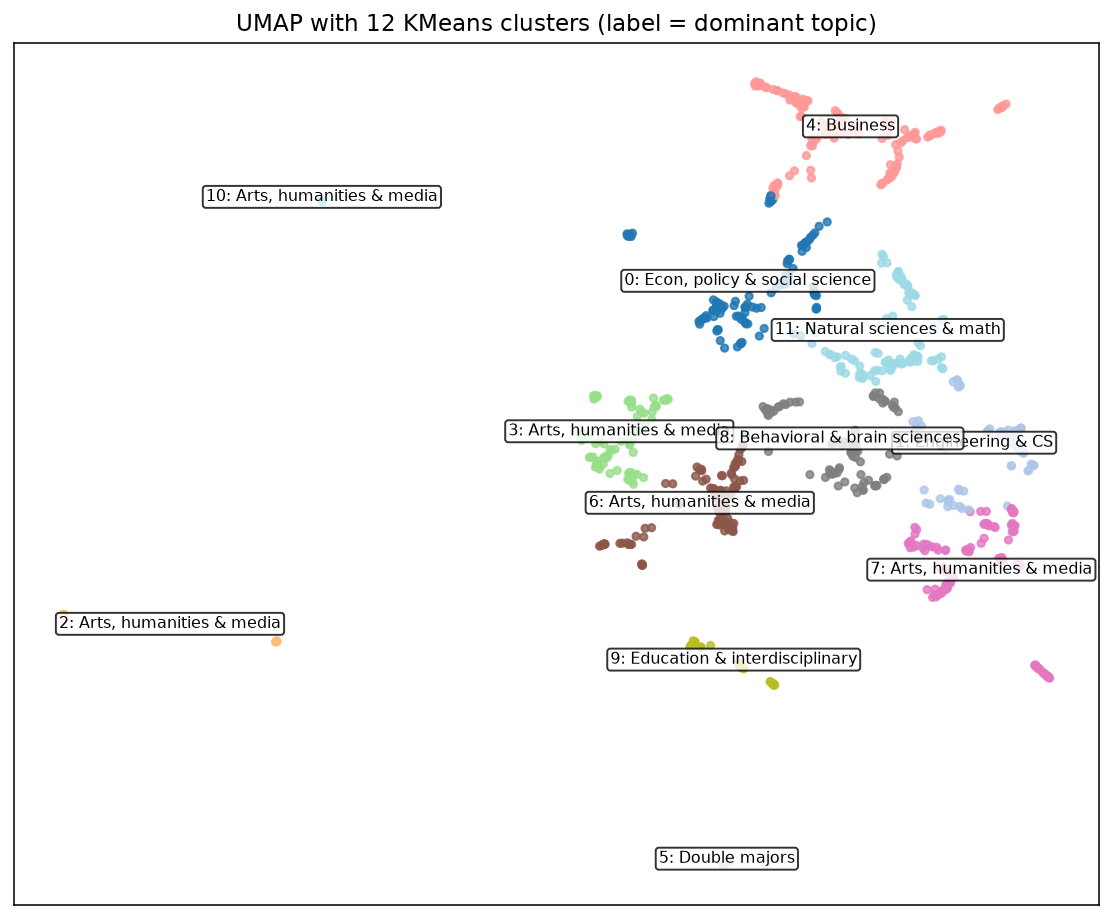
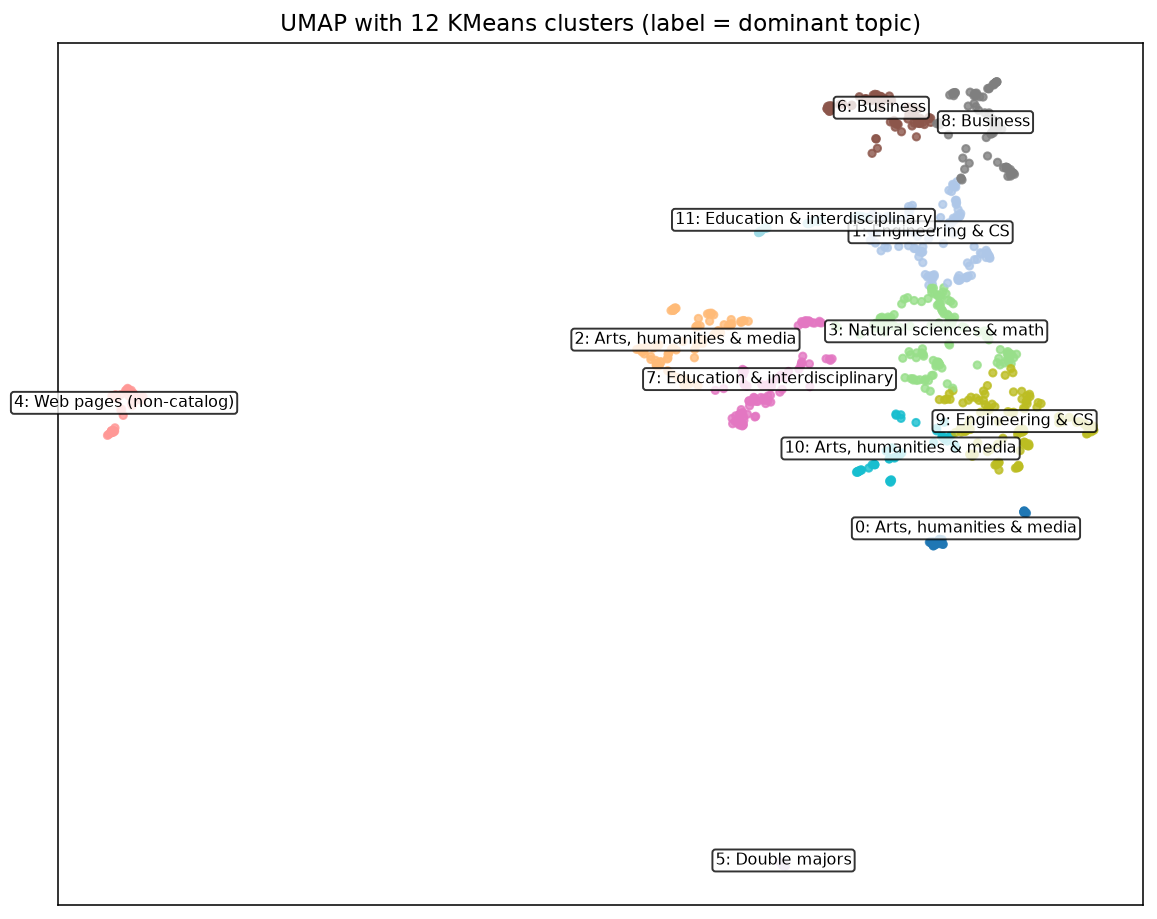
refresh coverage analysis, add retrieval eval after dedupe

diff --git a/backend/analysis/retrieval_eval_after_dedupe.md b/backend/analysis/retrieval_eval_after_dedupe.md
@@ -1,0 +1,180 @@
+# Retrieval eval after corpus dedupe (2026-11-11)
+
+Same 30 questions as the Week 3 review (`eval_questions.md` at `d8e03ee`), same harness (`feat/retrieval-eval`, read-only against Neon). Only the corpus changed: 192 documents / 885 chunks before, 202 documents / 892 chunks after.
+
+Dense (`text-embedding-3-small`), document level:
+
+| metric | before strict | before dup-aware | after (strict = dup-aware) |
+|---|---:|---:|---:|
+| Recall@1 | 0.578 | 0.667 | 0.689 |
+| Recall@3 | 0.706 | 0.794 | 0.900 |
+| Recall@5 | 0.761 | 0.889 | 0.928 |
+| Recall@10 | 0.967 | 0.967 | 1.000 |
+| MRR@10 | 0.769 | 0.838 | 0.883 |
+
+First relevant rank for the review's worst questions (dense, strict): Q6 6 -> 1, Q8 8 -> 1, Q19 6 -> 2, Q30 5 -> 3, Q5 4 -> 2, Q10 6 -> 6.
+
+Not fixed by the dedupe: Q10 (sibling programs outrank the target), repeated chunks from one document (27/30 questions), and BM25 favouring a few hub documents, including the single catalog overview page (top 5 for 8 questions).
+
+Full harness output follows.
+
+---
+
+# Retrieval evaluation — 2026-11-11
+
+- Questions: 30 from `/private/tmp/claude-501/-Users-sahilpatil-AskTemoc/f30d68e9-29fd-4d03-adca-7784f4641190/scratchpad/eval_questions_30.md`; parsed copy in `eval/eval_set.json`
+- Corpus: 202 documents, 892 chunks (Neon, read-only)
+- Code: `b56f7c4 (with uncommitted changes)`
+- Questions source commit: none (read from a local file)
+- Dense: `text-embedding-3-small` query embedding, pgvector cosine distance, exact scan
+- BM25: rank_bm25 BM25Okapi, lowercase + `[a-z0-9]+` tokens, no stemming or stopwords
+- Each method returns the top 50 chunks; these are collapsed to a document ranking (first chunk of each document counts) and metrics are computed on documents.
+- STRICT: only the exact target titles are relevant. DUPLICATE-AWARE: documents with identical text (`exact`) or difflib ratio ≥ 0.99 to a target (`near (ratio)`) also count. Recall counts each target once, credited to the first document that matches it.
+
+## Summary (document level)
+
+Headline metrics: Recall@k and MRR@k over the document ranking.
+
+**Recall@k**
+
+| method | mode | @1 | @3 | @5 | @10 |
+|---|---|---:|---:|---:|---:|
+| dense | strict | 0.689 | 0.900 | 0.928 | 1.000 |
+| dense | duplicate-aware | 0.689 | 0.900 | 0.928 | 1.000 |
+| bm25 | strict | 0.472 | 0.711 | 0.811 | 0.911 |
+| bm25 | duplicate-aware | 0.472 | 0.711 | 0.811 | 0.911 |
+
+**MRR@k**
+
+| method | mode | @1 | @3 | @5 | @10 |
+|---|---|---:|---:|---:|---:|
+| dense | strict | 0.800 | 0.878 | 0.878 | 0.883 |
+| dense | duplicate-aware | 0.800 | 0.878 | 0.878 | 0.883 |
+| bm25 | strict | 0.567 | 0.644 | 0.658 | 0.673 |
+| bm25 | duplicate-aware | 0.567 | 0.644 | 0.658 | 0.673 |
+
+**Precision@k (strict)**
+
+| method | mode | @1 | @3 | @5 | @10 |
+|---|---|---:|---:|---:|---:|
+| dense | strict | 0.800 | 0.378 | 0.240 | 0.133 |
+| bm25 | strict | 0.567 | 0.289 | 0.200 | 0.110 |
+
+**Precision@k (duplicate-aware)**: counts identical copies as separate hits, so it rewards redundancy; not comparable to strict precision.
+
+| method | mode | @1 | @3 | @5 | @10 |
+|---|---|---:|---:|---:|---:|
+| dense | duplicate-aware | 0.800 | 0.389 | 0.253 | 0.140 |
+| bm25 | duplicate-aware | 0.567 | 0.289 | 0.207 | 0.117 |
+
+## Chunk budget (what generation receives)
+
+Recall and MRR over the raw first k chunks, with no document-level dedup: repeated chunks of one document use up the budget, and MRR uses the position of the first relevant chunk.
+
+**Recall within the first k chunks**
+
+| method | mode | 3 chunks | 5 chunks | 8 chunks |
+|---|---|---:|---:|---:|
+| dense | strict | 0.883 | 0.928 | 0.961 |
+| dense | duplicate-aware | 0.883 | 0.928 | 0.961 |
+| bm25 | strict | 0.711 | 0.794 | 0.878 |
+| bm25 | duplicate-aware | 0.711 | 0.794 | 0.878 |
+
+**MRR within the first k chunks**
+
+| method | mode | 3 chunks | 5 chunks | 8 chunks |
+|---|---|---:|---:|---:|
+| dense | strict | 0.872 | 0.872 | 0.876 |
+| dense | duplicate-aware | 0.872 | 0.872 | 0.876 |
+| bm25 | strict | 0.644 | 0.658 | 0.668 |
+| bm25 | duplicate-aware | 0.644 | 0.658 | 0.668 |
+
+## Per question: rank of first relevant document (top 10, – = none)
+
+| Q | targets | dense strict | dense dup-aware | bm25 strict | bm25 dup-aware | question |
+|---|---:|---:|---:|---:|---:|---|
+| Q1 | 1 | 1 | 1 | 5 | 5 | What are the core requirements for the BS in Computer Science at UTD? |
+| Q2 | 1 | 1 | 1 | 3 | 3 | How many total credit hours are required to complete the BS in Computer Science? |
+| Q3 | 1 | 2 | 2 | 1 | 1 | What math courses are required for the BS in Electrical Engineering? |
+| Q4 | 1 | 1 | 1 | 1 | 1 | What is the Certificate in Quantum Information and what courses does it require? |
+| Q5 | 1 | 2 | 2 | 6 | 6 | What are the requirements for the BS in Biology and Healthcare Management double major? |
+| Q6 | 1 | 1 | 1 | 1 | 1 | What courses are listed under the Certificate in Intercultural Communication? |
+| Q7 | 1 | 1 | 1 | 1 | 1 | What does the Certificate in Military Science Leadership require, and who is eligible? |
+| Q8 | 1 | 1 | 1 | 1 | 1 | What courses make up the Certificate in Applied Experience Design and Research? |
+| Q9 | 1 | 1 | 1 | 2 | 2 | What are the upper-division elective options for the BS in Computer Science? |
+| Q10 | 1 | 6 | 6 | 6 | 6 | What are the requirements for the standalone BS in Healthcare Management at UTD? |
+| Q11 | 1 | 1 | 1 | 1 | 1 | What science or lab courses are required in the BS in Electrical Engineering? |
+| Q12 | 1 | 2 | 2 | 3 | 3 | What courses are required for the BS in Accounting at UTD? |
+| Q13 | 3 | 1 | 1 | 1 | 1 | What certificates at UTD focus on communication, design, or user experience? |
+| Q14 | 2 | 1 | 1 | 1 | 1 | What is the difference in core requirements between a BS in Computer Science and a BS in Electrical Engineering at UTD? |
+| Q15 | 1 | 1 | 1 | 1 | 1 | What are the course requirements for the BA in Animation and Games at UTD? |
+| Q16 | 1 | 1 | 1 | 2 | 2 | What does the BS in Business Analytics and Artificial Intelligence require? |
+| Q17 | 1 | 1 | 1 | 1 | 1 | What courses are required for the BS in Cybersecurity and Risk Management? |
+| Q18 | 2 | 1 | 1 | 1 | 1 | How do the core requirements for the BS in Software Engineering compare to those for the BS in Computer Science? |
+| Q19 | 1 | 2 | 2 | 3 | 3 | What are the requirements for the Certificate in Cyber Defense? |
+| Q20 | 1 | 1 | 1 | 1 | 1 | What courses does the BS in Biomedical Engineering require? |
+| Q21 | 1 | 1 | 1 | 3 | 3 | What is required for the BS in Neuroscience at UTD? |
+| Q22 | 2 | 1 | 1 | 1 | 1 | How do the requirements differ between the BA in Economics and the BS in Finance and Economics double major? |
+| Q23 | 1 | 1 | 1 | 5 | 5 | What courses make up the Certificate in Data Science? |
+| Q24 | 1 | 1 | 1 | 1 | 1 | What are the requirements for the BS in Mechanical Engineering? |
+| Q25 | 3 | 1 | 1 | 1 | 1 | What programs at UTD focus on sustainability or environmental topics? |
+| Q26 | 1 | 1 | 1 | 8 | 8 | What is the BS in Marketing and what courses does it require? |
+| Q27 | 1 | 1 | 1 | 1 | 1 | What are the requirements for the Certificate in Innovation and Entrepreneurship? |
+| Q28 | 2 | 1 | 1 | – | – | Does UTD have a pre-law program or certificate, and what does it cover? |
+| Q29 | 1 | 1 | 1 | 1 | 1 | What are the requirements for the BA in Visual and Performing Arts — Film concentration? |
+| Q30 | 3 | 3 | 3 | – | – | What programs at UTD combine business with another discipline as a prescribed double major? |
+
+## Strict vs duplicate-aware: what changed
+
+4 question/method pairs change. The last column lists every non-target document that counted in the top 10, as `#rank doc -> target [exact|near (ratio)]`. `rescued` marks the first document credited to that target, which raised recall or MRR; the others only raised precision.
+
+| Q | method | changed at k | R@10 strict → dup | MRR@10 strict → dup | P@10 strict → dup (dup counts copies) | duplicate documents counted (top 10) |
+|---|---|---|---|---|---|---|
+| Q5 | dense | 5, 10 | 1.000 → 1.000 | 0.500 → 0.500 | 0.100 → 0.200 | #5 bs_in_healthcare_management_and_biology_double_major/requirements -> bs_in_biology_and_healthcare_management_double_major/requirements [near (0.992)] |
+| Q5 | bm25 | 10 | 1.000 → 1.000 | 0.167 → 0.167 | 0.100 → 0.200 | #7 bs_in_healthcare_management_and_biology_double_major/requirements -> bs_in_biology_and_healthcare_management_double_major/requirements [near (0.992)] |
+| Q22 | dense | 3, 5, 10 | 1.000 → 1.000 | 1.000 → 1.000 | 0.200 → 0.300 | #2 bs_in_finance_and_economics_double_major/requirements -> bs_in_economics_and_finance_double_major/requirements [near (0.994)] |
+| Q22 | bm25 | 5, 10 | 1.000 → 1.000 | 1.000 → 1.000 | 0.200 → 0.300 | #5 bs_in_finance_and_economics_double_major/requirements -> bs_in_economics_and_finance_double_major/requirements [near (0.994)] |
+
+### Equivalence sets used for targets (targets with at least one duplicate)
+
+- `bs_in_biology_and_healthcare_management_double_major/requirements`: `bs_in_healthcare_management_and_biology_double_major/requirements` (near (0.992))
+- `bs_in_economics_and_finance_double_major/requirements`: `bs_in_finance_and_economics_double_major/requirements` (near (0.994))
+
+## Repeated documents in chunk rankings
+
+| method | questions with a repeat in top 10 chunks | mean repeats in top 10 chunks | max | mean chunks needed for 10 distinct docs | max |
+|---|---:|---:|---:|---:|---:|
+| dense | 27/30 | 2.97 | 6 | 14.9 | 24 |
+| bm25 | 26/30 | 1.90 | 6 | 12.7 | 19 |
+
+## Catalog index pages (`1/`, `2/`, `3/requirements`) in the top 5
+
+These three documents are identical copies of the catalog's program index page.
+
+| method | questions with ≥1 in top 5 docs | slots taken in top 5 docs | questions with ≥1 in top 5 chunks | slots taken in top 5 chunks |
+|---|---:|---:|---:|---:|
+| dense | 0/30 | 0/150 | 0/30 | 0/150 |
+| bm25 | 0/30 | 0/150 | 0/30 | 0/150 |
+
+## Documents that appear in the top 5 most often
+
+A document in many unrelated top-5 lists is crowding out targets. Count = questions (of 30) with that document in the top 5.
+
+**dense**: `bachelor_of_science_in_software_engineering/requirements` 8 (a target), `bachelor_of_science_in_computer_science/requirements` 6 (a target), `bachelor_of_science_in_computer_engineering/requirements` 6, `bachelor_of_science_in_systems_engineering/requirements` 5, `bachelor_of_science_in_cybersecurity_and_risk_management/requirements` 5 (a target), `bachelor_of_science_in_cognitive_science/requirements` 5
+
+**bm25**: `bachelor_of_arts_in_economics/requirements` 23 (a target), `bachelor_of_arts_in_sociology/requirements` 17, `bachelor_of_arts_in_political_science/requirements` 8, `undergraduate_catalog_overview/requirements` 8, `certificate_in_neural_net_math/requirements` 7, `bachelor_of_science_in_computer_science/requirements` 7 (a target)
+
+## Method comparison (MRR@10)
+
+**strict**: dense better on 12, BM25 better on 1, tied on 17.
+
+- BM25 beats dense: Q3 (1.000 vs 0.500)
+- Both miss in top 10: none
+- Both miss in top 5: Q10
+
+**duplicate-aware**: dense better on 12, BM25 better on 1, tied on 17.
+
+- BM25 beats dense: Q3 (1.000 vs 0.500)
+- Both miss in top 10: none
+- Both miss in top 5: Q10
+

diff --git a/backend/analysis/coverage_report.md b/backend/analysis/coverage_report.md
@@ -1,6 +1,6 @@
 # Embedding coverage report
 
-Source: 940 chunk embeddings (text-embedding-3-small, 1536-dim) across 122 program folders in Neon.
+Source: 892 chunk embeddings (text-embedding-3-small, 1536-dim) across 121 program folders (202 documents) in Neon.
 Reproduce with `python backend/embedding_coverage.py`. Topic labels are keyword rules on the folder name, so they are approximate.
 
 Plots: `embedding_map.png` (PCA + UMAP by topic), `embedding_clusters.png` (UMAP + KMeans), `eval_coverage.png` (programs vs eval targets).
@@ -15,28 +15,29 @@ Raw numbers: `coverage_summary.json`.
 
 ## Eval coverage (programs that are the target of at least one question)
 
-| Topic | Programs | Before (Q1-Q30) | After (Q1-Q51) |
+| Topic | Programs | Before (Q1-Q30) | After (Q1-Q55) |
 |---|---|---|---|
 | Engineering & CS | 14 | 8 | 8 |
 | Natural sciences & math | 14 | 2 | 7 |
 | Business | 12 | 6 | 6 |
-| Econ, policy & social science | 14 | 3 | 7 |
+| Econ, policy & social science | 15 | 3 | 7 |
 | Arts, humanities & media | 29 | 6 | 10 |
 | Behavioral & brain sciences | 8 | 2 | 3 |
 | Education & interdisciplinary | 13 | 0 | 8 |
-| Double majors | 15 | 5 | 5 |
-| Catalog index | 3 | 0 | 1 |
-| Total | 122 | 32 | 55 |
+| Double majors | 14 | 5 | 5 |
+| Catalog overview | 1 | 0 | 1 |
+| Web pages (non-catalog) | 1 (3 pages) | 0 | 1 |
+| Total | 121 | 32 | 56 |
 
-Education grew from 6 to 13 programs after the missing 4-8 and EC-6 concentration pages were added to the corpus.
+The corpus changed after the dedupe fixes: three identical index pages became one overview page, duplicate and example-plan documents for certificates were removed, Nonprofit Management was added, and three Crawl4AI web pages were embedded.
 
 ## Still underrepresented
 
 - Arts, humanities & media: 19 of 29 programs untargeted, mostly the VPA, Literature, and Media Arts concentration folders.
-- Double majors: 10 of 15 untargeted.
+- Double majors: 9 of 14 untargeted.
 - Behavioral & brain sciences: 5 of 8 untargeted.
-- Four-year sample plans: 77 `example.txt` files in the corpus, only 3 questions (Q43, Q44, Q50) target them.
-- Catalog index folders `2/` and `3/` have no question.
+- Four-year sample plans: 72 `example.txt` documents in the corpus, only 3 questions (Q43, Q44, Q50) target them.
+- Web pages: only the tuition and academics pages have questions (Q52-Q55). The home page has none.
 
 ## Corpus note
 
